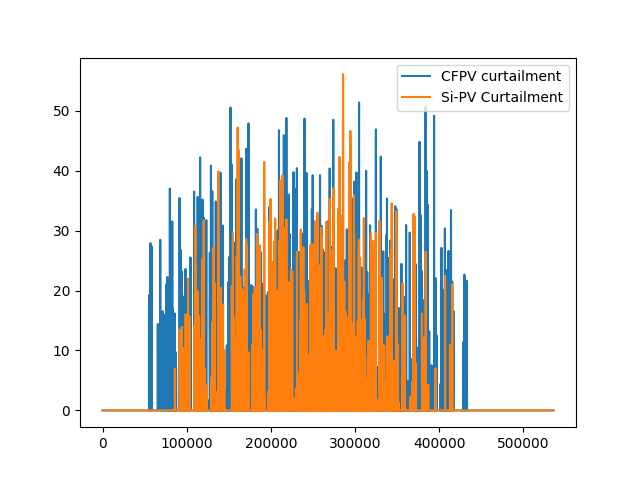
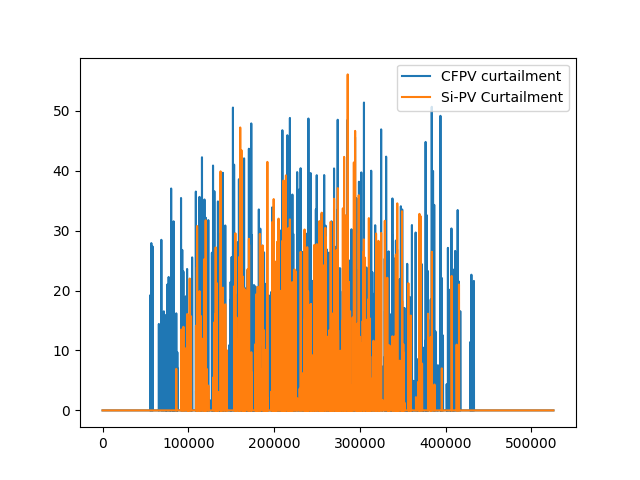
processing weekly graphs

diff --git a/data/self_consumption/self_consumption.py b/data/self_consumption/self_consumption.py
@@ -45,9 +45,9 @@ year_combined_load_profile =  pd.concat([year_combined_load_profile] * repeat_fa
 
 
 #CFPV 
-grid_consumption_cfpv = pd.DataFrame(np.zeros(len(year_combined_load_profile)), columns=['consumption'])
-battery_energy_cfpv = pd.DataFrame(np.zeros(len(year_combined_load_profile)), columns=['energy'])
-curtailment_cfpv = pd.DataFrame(np.zeros(len(year_combined_load_profile)), columns=['curtailment'])
+grid_consumption_cfpv = pd.DataFrame(np.zeros(525599), columns=['consumption'])
+battery_energy_cfpv = pd.DataFrame(np.zeros(525599), columns=['energy'])
+curtailment_cfpv = pd.DataFrame(np.zeros(525599), columns=['curtailment'])
 battery_energy_cfpv['energy'][0] = battery_capacity*(SoC_battery/100)
 
 #for i, _ in year_combined_load_profile.iterrows():
@@ -73,9 +73,9 @@ for i in range(525599):
             battery_energy_cfpv['energy'][i+1] = battery_capacity
     
 #Silicon 
-battery_energy_p = pd.DataFrame(np.zeros(len(year_combined_load_profile)), columns=['energy'])
-grid_consumption_p = pd.DataFrame(np.zeros(len(year_combined_load_profile)), columns=['consumption'])
-curtailment_p = pd.DataFrame(np.zeros(len(year_combined_load_profile)), columns=['curtailment'])
+battery_energy_p = pd.DataFrame(np.zeros(525599), columns=['energy'])
+grid_consumption_p = pd.DataFrame(np.zeros(525599), columns=['consumption'])
+curtailment_p = pd.DataFrame(np.zeros(525599), columns=['curtailment'])
 battery_energy_p['energy'][0] = battery_capacity*(SoC_battery/100)
 
 #for i, _ in year_combined_load_profile.iterrows():
@@ -125,3 +125,16 @@ ax2.set_title('Si-PV generation and grid consumption')
 plt.tight_layout()
 plt.savefig('data/plots/pie_charts_year.png')
 plt.show()
+
+#date_range = pd.date_range(start='2022-01-01', end='2023-01-01', freq='T')
+#date_range = date_range.drop(date_range[-2])
+#x['time'] = date_range
+#x['time'] = pd.to_datetime(x['time'])
+#x.set_index('time', inplace=True)
+#plt.plot(x.groupby(x.index.strftime('%H:%M')).mean())
+
+
+#plt.plot(range(1,54), pv_profile['P'].groupby(pv_profile.index.strftime('%Y-%U')).max(), label='Si-PV_max', color='red', linestyle='--')
+
+#plt.bar(range(1,54), grid_consumption_cfpv['consumption'].groupby(grid_consumption_cfpv.index.strftime('%Y-%U')).sum()*60, width=0.35, label='CFPV grid consumption', color='blue', alpha=0.5)
+#plt.bar([week + 0.35 for week in range(1,54)], grid_consumption_p['consumption'].groupby(grid_consumption_p.index.strftime('%Y-%U')).sum()*60, width=0.35, label='Si-PV grid consumption', color='red', alpha=0.5)
